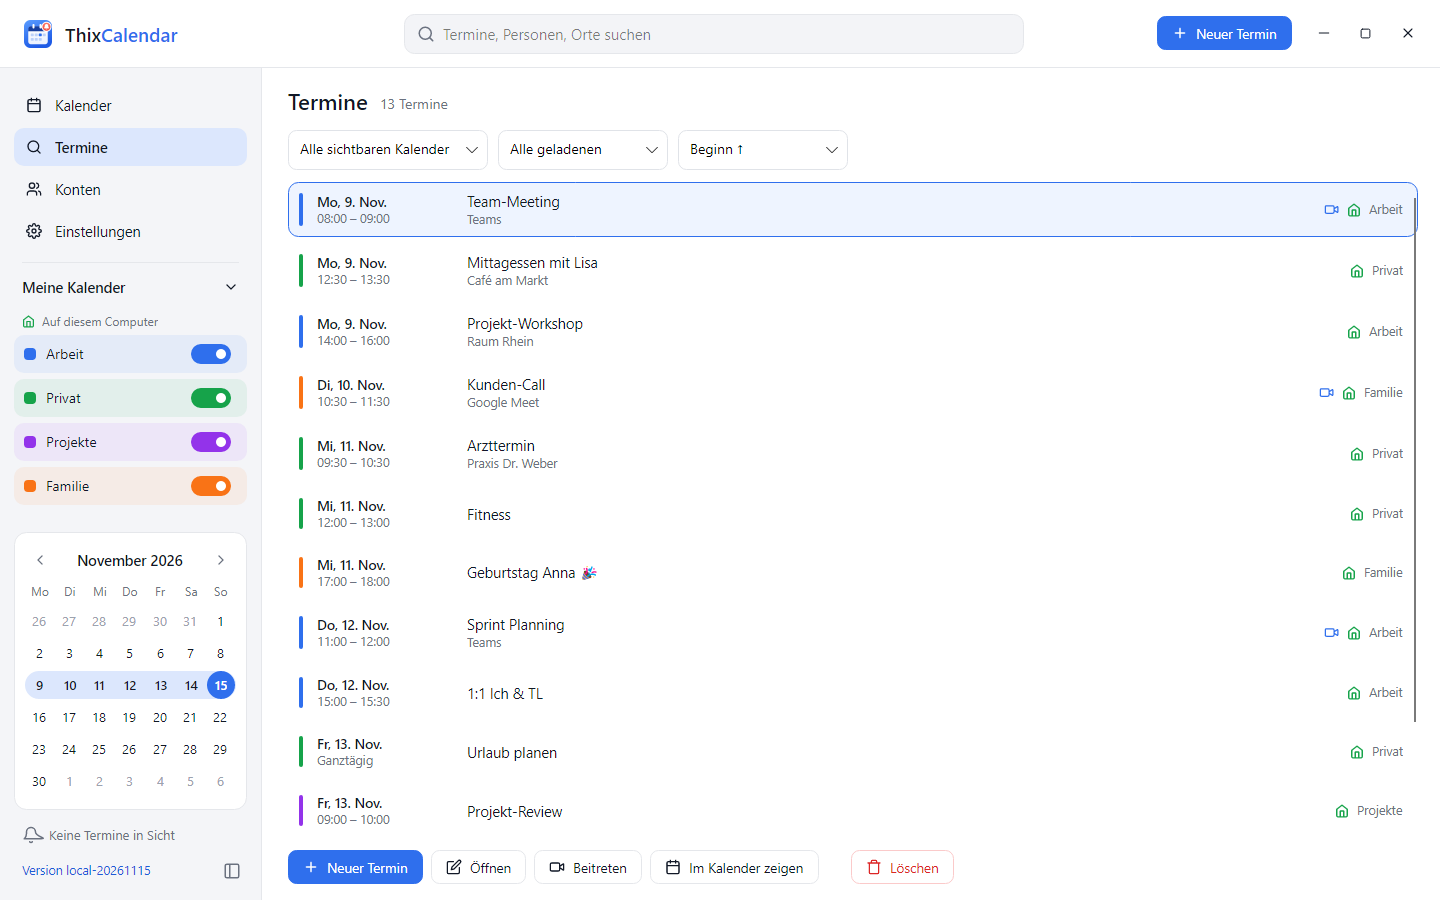
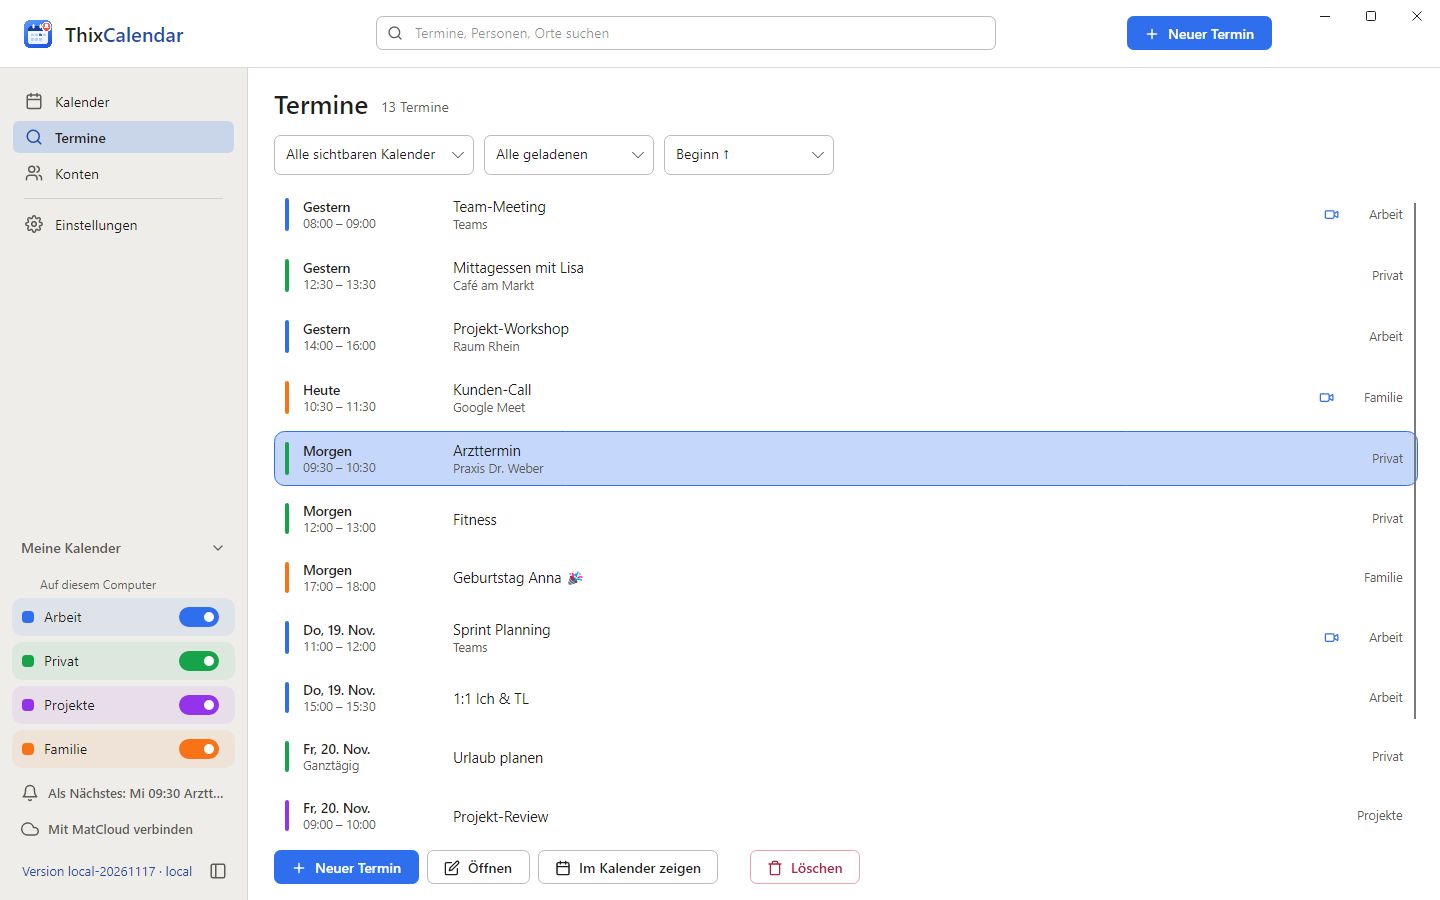
Docs: MatDesktop, MatCloud and ThixLauncher; pictures in the new look

diff --git a/CLAUDE.md b/CLAUDE.md
@@ -10,9 +10,13 @@ one window. **The focus is the reminders** (owner's requirement: "Aktuell bekomm
 until answered, come again at the start (large, centred), play a sound (repeated), catch up after sleep, and join online
 meetings with one click. UI language German; code, comments and identifiers English. The mockup of the main window is
 `docs/mockups/hauptfenster.png`; the sister project ThixClip (`../ThixClip`) is the reference for structure and look.
+**MatCloud** (the cloud of all Thix apps, `../MatCloud`, app id `calendar`, the general sync) keeps the accounts, the own
+calendars with their events, the reminder settings and the answers to reminders the same on every computer; **ThixLauncher**
+(`../ThixLauncher`, its catalog `AppCatalog`) installs ThixCalendar and hands over its MatCloud sign-in.
 
-Stack: **.NET 10**, C#. **Avalonia 11.3** (Fluent underneath our own look), SQLite (Microsoft.Data.Sqlite), Ical.Net
-(ICS + recurrences), SkiaSharp (tray badge).
+Stack: **.NET 10**, C#. **Avalonia 11.3** with **MatDesktop 0.2.0** (the desktop toolkit of MatDesign: Fluent in the colours of
+the tokens, title bar, menu, tray, setup window), SQLite (Microsoft.Data.Sqlite), Ical.Net (ICS + recurrences), SkiaSharp
+(tray badge). The desktop app follows MatDesign's rules DESK, TRAY and SETUP (MatDesign docs/DESKTOP.md).
 
 ## Build / run / test
 
@@ -22,7 +26,9 @@ Stack: **.NET 10**, C#. **Avalonia 11.3** (Fluent underneath our own look), SQLi
   against fake providers (`FakeHttp` replaces the network via `ProviderHttp.HandlerForTests`, `AccountService.SignInForTests`
   replaces the browser), the real OAuth loopback, event layout, time input, and the **UI rendered headless** (`UiTests`;
   with `THIXCALENDAR_SCREENSHOTS=<folder>` screenshots of every page and the reminder window in light and dark – look at
-  them). Tests never touch real data, Keychain, registry values or LaunchAgents (`TestData`), and never play a sound.
+  them). `CloudTests`: sign-in (browser, password, ThixLauncher's hand-over) and two computers (two data folders) meeting in
+  `FakeCloud` (MatCloud's general sync in memory). `CopyTests` hold the copies of MatDesktop and of the MatCloud contract.
+  Tests never touch real data, Keychain, registry values or LaunchAgents (`TestData`), and never play a sound.
 - Run with sample data: `THIXCALENDAR_DATA_DIR=<folder> THIXCALENDAR_SAMPLE_DATA=1 dotnet run --project src/ThixCalendar`
   (own instance, never meets the installed one; `SampleData` only fills an empty database in an override folder).
 - The Windows publish (win-x64) is a **trimmed** single file (`TrimMode=partial`, Ical.Net rooted whole; about 40 MB).
@@ -31,8 +37,16 @@ Stack: **.NET 10**, C#. **Avalonia 11.3** (Fluent underneath our own look), SQLi
   SkiaSharp, sound, COM, every window) in a temporary data folder; CI runs it after every Windows publish.
 - `scripts/package-macos.sh` builds `ThixCalendar.app` (Info.plist, icns, ad-hoc signature), the update zip and the dmg.
 - Icons: `cd tools && npm install && node render-icons.js` renders `branding/*.svg` (installed Edge, headless) into
-  `branding/png` and `src/ThixCalendar/Assets`. `node tools/avalonia-icons.js` turns MatDesign's icon sprite
-  (`../MatDesign`) plus a few own ones into `src/ThixCalendar/Themes/Icons.axaml` (never edit that file by hand).
+  `branding/png` and `src/ThixCalendar/Assets`. The line icons of the app are MatDesktop's (every symbol of MatDesign's sprite,
+  `<mat:MatIcon Icon="calendar"/>`). The few the sprite lacks (window, video, map-pin, bell-ring, bell-off, snooze,
+  calendar-plus, today, rss) are drawn by `node tools/avalonia-icons.js` into `src/ThixCalendar/Themes/Icons.axaml` with keys
+  `MatIcon.<name>`, so MatIcon finds them like its own (never edit that file by hand; better: add them to MatDesign's sprite).
+- **MatDesktop** (`src/ThixCalendar/MatDesktop/`) is a COPY from MatDesign (branch `feature/desktop-and-services`,
+  `src/MatDesktop`): never edit it here. Change it in MatDesign and copy again with
+  `node tools/matdesktop-copy.js <path>/ThixCalendar/src/ThixCalendar` (there); `CopyTests` holds the files to `matdesktop.version`.
+- **The MatCloud contract** (`src/ThixCalendar.Core/MatCloud/`, namespace `MatCloud.Contract`) is a COPY: change it in MatCloud
+  and copy again with `node ../MatCloud/tools/contract-copy.js src/ThixCalendar.Core`. Run MatCloud locally with
+  `../MatCloud/scripts/redeploy.ps1` (http://localhost:4950).
 
 ## Map
 
@@ -40,7 +54,8 @@ Stack: **.NET 10**, C#. **Avalonia 11.3** (Fluent underneath our own look), SQLi
 src/ThixCalendar.Core   (no UI) models, business layer (static classes), infrastructure, providers, native bits
   Models/               CalendarAccount (Kind Local/Microsoft/Google/Ics, State), CalendarInfo, CalendarEvent (absolute
                         Start/End; all-day = dates at midnight UTC, StartLocal/EndLocal; OccurrenceKey), EventItem,
-                        EventQuery, CalendarColors, AppSettings (reminders, sync, app registrations, updates), BusinessException
+                        EventQuery, CalendarColors, AppSettings (reminders, sync, app registrations, updates, CloudSettings),
+                        BusinessException; an account has a SyncId, an own calendar and its events a key of their own (RemoteId)
   Business/             CalendarService (queries, save/delete – provider first, then the store; validation and permission:
                         read-only calendars, signed-out accounts, policies), AccountService (local / ICS / Microsoft / Google,
                         sign-in, access tokens in memory with refresh + rotation, MarkSignedOut), SyncService (loop every N
@@ -48,7 +63,11 @@ src/ThixCalendar.Core   (no UI) models, business layer (static classes), infrast
                         ReminderService (ComputeDue: stages Before / Start / AllDay, answers per occurrence, missed window,
                         snooze, pause; Check/Dismiss/Snooze/Upcoming), SettingsService, AccessPolicy (LockConfiguration,
                         DisableOnlineAccounts, DisableUpdates), AutostartService (HKCU Run / LaunchAgent), InstallService
-                        (Windows self-installing exe), UpdateService + MacAppBundle (OTA from GitHub releases), SampleData
+                        (Windows self-installing exe), UpdateService + MacAppBundle (OTA from GitHub releases), SampleData,
+                        CloudService (MatCloud: sign-in in the browser / with a password / ThixLauncher's hand-over, the loop
+                        pull -> push -> long poll, 401 signs out, 403 waits), CloudItems (what travels: settings, accounts
+                        WITHOUT sign-ins, calendars – for online ones only what the user chose –, the events of the own
+                        calendars, the answers to reminders; index cloud-sync.json; items that cannot be applied yet are parked)
   Infrastructure/       CalendarStore (SQLite calendar.db: Account, Calendar, CalendarEvent, ReminderState; ReplaceEvents keeps
                         row ids of known remote keys), SettingsStore (settings.json), TokenStore (DPAPI / Keychain), AppPaths,
                         AppInfo (version, channel, built-in client ids), Log, ProblemReports (crash / hang reports)
@@ -56,24 +75,33 @@ src/ThixCalendar.Core   (no UI) models, business layer (static classes), infrast
                         only changed fields), GoogleProvider (singleEvents, popup reminders, attendee answer), IcsProvider
                         (Ical.Net, read-only), OAuthClient (PKCE, loopback TcpListener on IPv4+IPv6, token refresh),
                         ProviderHttp (one HttpClient, JsonNode only, ProviderException), MeetingLinks (Teams/Meet/Zoom/Webex)
+  MatCloud/             COPY of MatCloud's contract (never edited here): CloudContract, CloudApps, Devices, Handoff (CloudHandoff),
+                        Sync (the general sync), MatCloudClient
   Platform/             Chime (own two-note WAV via winmm on Windows, afplay "Glass" on macOS), WindowActivation, Windows/ShellLink
 src/ThixCalendar        (Avalonia app)
   Program / App         start-up: ProblemReports first, self test, Windows setup mode, single instance (mutex + pipe), tray,
-                        sync, reminders; ShowMainWindow, ToggleReminderPauseAsync, ExitApplication
-  MainWindow            built like ThixClip: header across the width (logo, search over all events → "Termine", "Neuer Termin",
-                        own caption buttons on Windows / traffic lights on macOS), sidebar flush with a line (sections,
-                        "Meine Kalender" with coloured switches, MiniMonth, reminder state, version = about, fold with
-                        Ctrl/Cmd+B; its width = the brand column of the header), the page beside it; a back stack for the
-                        editors; keyboard (OnPreviewKeyDown)
+                        sync, MatCloud (+ ThixLauncher's sign-in), reminders; Initialize installs MatDesktop's theme with
+                        ThixCalendar's accent (#2F6FED), then Themes/Icons.axaml and Themes/Theme.axaml; ApplyTheme =
+                        MatTheme.SetAppearance; ToggleReminderPauseAsync, ExitApplication
+  MatDesktop/           COPY of MatDesign's desktop toolkit (never edited here): MatTheme, MatWindow, MatTitleBar, MatNav,
+                        MatIcon, MatSettingRow/MatFormField, MatTray/MatTrayMenu, MatNotification, MatSetupWindow, MatVersion …
+  MainWindow            a MatWindow like ThixClip: MatTitleBar (logo and word mark, search over all events → "Termine",
+                        "Neuer Termin", caption buttons on Windows / traffic lights on macOS), MatNav (Kalender, Termine,
+                        Konten, Einstellungen; at its foot "Meine Kalender" with coloured switches, MiniMonth – only where it
+                        does not push the calendars out (FitMenuFoot) –, the state of the reminders and of MatCloud; version =
+                        about, fold with Ctrl/Cmd+B), the page beside it; a back stack for the editors; keyboard (OnPreviewKeyDown)
   Pages/                CalendarPage (the grid gets the room – owner's requirement: ONE slim toolbar with ‹ Heute ›,
                         period + KW, segments Tag | Arbeitswoche | Woche | Monat, sync, filter with accounts and
                         calendars; no big title, no chips row), EventsPage (CRUD list: the header search,
                         toolbar calendar / period / sort, list, Pager, actions), EventEditorPage (tabs Termin | Notizen | Erinnerung),
                         AccountsPage (CRUD list), AccountEditorPage (tabs Allgemein | Kalender), SettingsPage (tabs Allgemein |
-                        Erinnerungen | Synchronisierung | Updates | Erweitert – own app registrations folded there for admins), AboutPage
+                        Erinnerungen | Synchronisierung | Cloud | Updates | Erweitert – own app registrations folded there for
+                        admins; Cloud in SettingsPage.Cloud.cs: like ThixClip, in the browser first, user name and password
+                        second), AboutPage
   Controls/             ONE code base per control: TimeGridView (+ DayColumnPanel, EventLayout lanes), MonthView, MiniMonth,
                         EventVisuals (block, chip, tool tip), Pager, TimeField, ColorSwatches, AccountMark, ActionBar,
-                        FormField, SettingRow, InfoBar, IconLabel, IconView
+                        FormErrors (controls:FormErrors.Field on a MatFormField = BusinessException.Field), InfoBar, IconLabel
+                        (a sprite icon by name and a text)
   Reminders/            ReminderCoordinator (10 s check off the UI thread, sound + repeat, test reminder, answers),
                         ReminderWindow (topmost, never activated, corner; centred with "Beginnt jetzt" at the start)
   Tray/                 TrayIcon (badge: red = reminders waiting, amber = paused; next events; pause; sync; quit), TrayIconImages,
@@ -88,10 +116,15 @@ tests/ThixCalendar.Tests
 - **Microsoft C# coding conventions**, file-scoped namespaces, `_camelCase` fields, human-readable names, early returns.
 - **Business layer = static classes.** UI never touches `CalendarStore`, `SettingsStore`, files, registry or HTTP; pages
   never query. Validation **and permission checks** (AccessPolicy, read-only calendars, account state) live in the
-  business layer. Errors are `BusinessException(message, field)`; the UI shows them at the `FormField` with that `Field`.
+  business layer. Errors are `BusinessException(message, field)`; the UI shows them at the `MatFormField` whose
+  `controls:FormErrors.Field` is that `Field`.
   Provider failures (`ProviderException`) are turned into `BusinessException` at the service boundary.
 - **Relational rules** (SQLite): PascalCase tables/columns, key `Id` (64 bit), `CreateDate`, `CreateUserId`, `UpdateDate`,
   `UpdateUserId`, `UpdateState` (1 created, 2 updated). Rows are deleted for real (the providers are the truth).
+- **MatCloud rules** (CloudItems): the general sync, last writer wins by `UpdatedAt`, a delete leaves a tombstone. Sign-ins at
+  Microsoft and Google NEVER travel (an account from another computer arrives as "Anmeldung nötig"); the calendars of
+  Microsoft, Google and ICS stay theirs (only shown / reminders / an own colour travel); an answer to a reminder travels by its
+  occurrence as every computer names it (calendar key : event key : start). What cannot be applied yet is parked, never deleted.
 - **Providers are the truth**: a change goes to Microsoft / Google first; only what they accepted is stored. Graph gets only
   the changed fields (formatted notes are never overwritten unless the notes changed). Never log event contents, passwords
   or tokens.
@@ -100,8 +133,11 @@ tests/ThixCalendar.Tests
 - **UI rules:** toolbar above lists (search, filter, sort), paging below the list, actions below, left-aligned, positive to
   negative, delete with a gap; buttons in one row (Speichern, …, Zurück … gap … Löschen); icons where they help; tabs for
   areas of one item; hide what does not apply (times for all-day events, URL only for ICS); cards keep their distance;
-  the about page opens from the version bottom left. Colours only from `Themes/Theme.axaml` via `DynamicResource` (light
-  and dark), calendar colours via `Ui.SolidBrush` / `Ui.Tint`. Icon-only buttons get `AutomationProperties.Name`.
+  the about page opens from the version bottom left. **Colours only from MatDesktop's theme** (DESK-02):
+  `{DynamicResource Mat.Surface}`, `Mat.TextMuted`, `Mat.Accent` … in XAML, `control.Use(property, "Mat.TextMuted")` (or
+  `Ui.Brush`) in code; named looks are MatDesktop's control themes (`MatButton.Primary`, `.Danger`, `.Link`, `MatText.PageTitle`,
+  `MatCard`, `MatSearchBox` …); ThixCalendar's own few (Segment, RoundButton, PlainRow, SubtleCard) in `Themes/Theme.axaml`
+  use only Mat.* tokens. The calendar colours are data: `Ui.SolidBrush` / `Ui.Tint`. Icon-only buttons get `AutomationProperties.Name`.
   Several instances of a control on one page must work (no static state in controls).
 - **Avalonia:** ControlThemes cannot contain descendant selectors – put those styles on the page. `Panel.Render` is
   sealed (draw in a child, see `DayColumnPanel.HourLines`). Rows built in code must not set colours locally that a page

diff --git a/README.md b/README.md
@@ -12,6 +12,15 @@ dafür, dass du keinen Termin mehr übersiehst.
 |---|---|
 | ![Woche](docs/images/desktop-week-light.png) | ![Woche dunkel](docs/images/desktop-week-dark.png) |
 
+## Auf allen Computern gleich – MatCloud und ThixLauncher
+
+- **ThixLauncher** installiert ThixCalendar mit einem Klick, hält es aktuell und meldet es gleich bei deiner **MatCloud** an.
+- **MatCloud** (die Cloud der Thix-Apps) gleicht ab: deine Konten, die eigenen Kalender mit ihren Terminen, die Einstellungen der
+  Erinnerungen und **deine Antworten auf Erinnerungen** – schließt du eine Erinnerung am Laptop, ist sie auch am Desktop erledigt.
+- **Anmeldungen bei Microsoft und Google bleiben auf jedem Computer für sich**: Ein Konto, das von einem anderen Computer kommt,
+  zeigt „Anmeldung nötig“ – einmal „Neu anmelden“, fertig.
+- Ohne Launcher: Einstellungen › Cloud › *Im Browser anmelden* (oder mit Benutzername und Passwort).
+
 ## Erinnerungen, die man nicht übersieht
 
 Der Grund, warum es ThixCalendar gibt:
@@ -147,6 +156,7 @@ Richtlinien (Wert 1 = an) unter `HKLM\SOFTWARE\Policies\ThixCalendar` (Windows) 
 | `LockConfiguration` | Einstellungen und Konten nur lesbar (Kalender und Erinnerungen bleiben nutzbar) |
 | `DisableOnlineAccounts` | keine Microsoft-, Google- oder ICS-Konten – nur Kalender auf diesem Computer |
 | `DisableUpdates` | keine Update-Prüfung und -Installation |
+| `DisableCloud` | keine Verbindung zur MatCloud |
 
 ## Entwicklung
 
